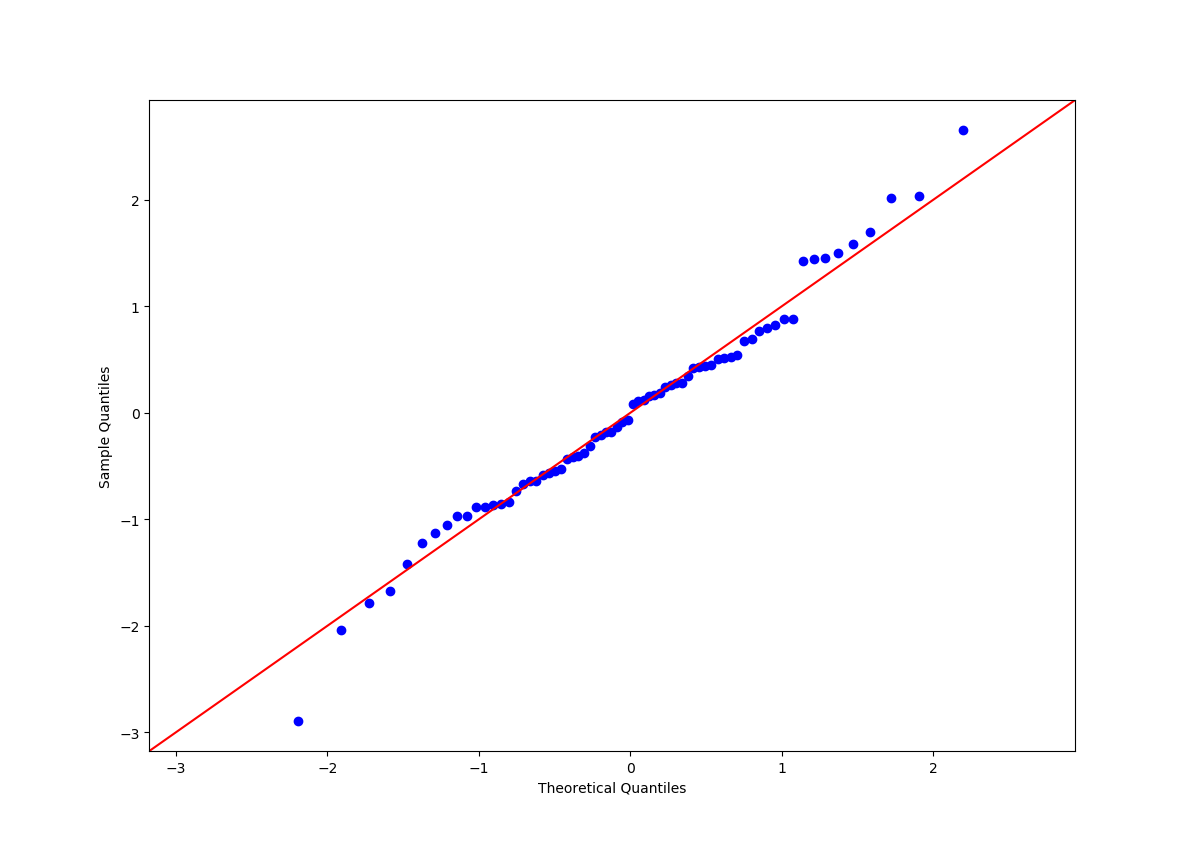
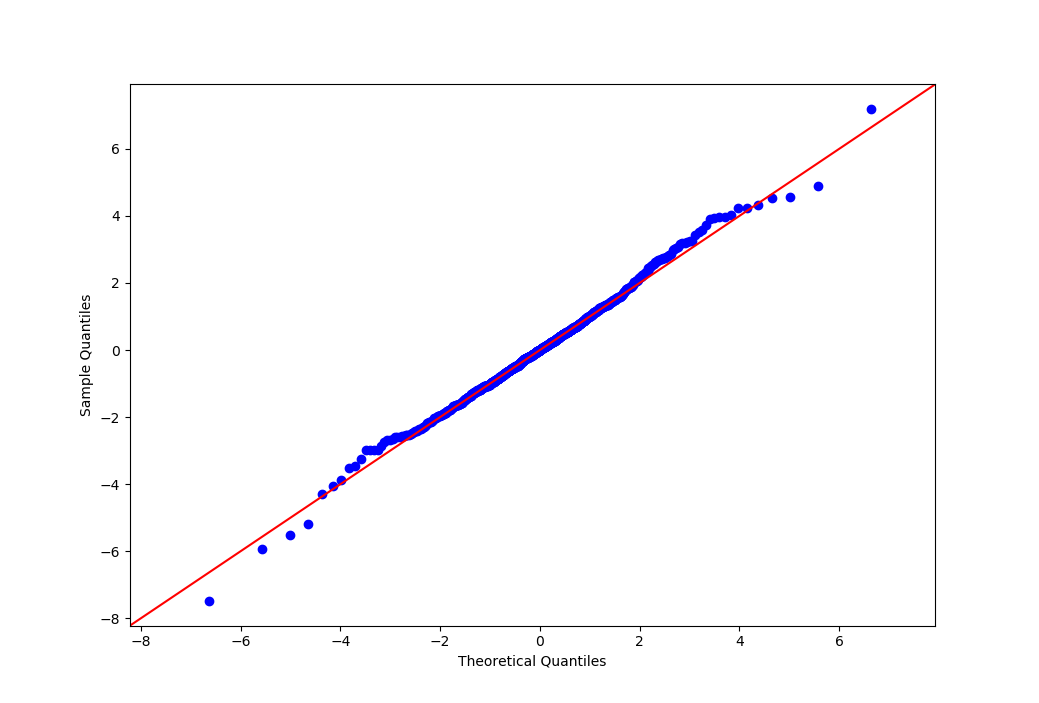
AutoUpload

diff --git a/_posts/[5] 可视化/2017-11-01-datavisualization.md b/_posts/[5] 可视化/2017-11-01-datavisualization.md
@@ -17,21 +17,31 @@ sns.distplot
 
 <img src='http://www.guofei.site/public/postimg2/seaborn1_1.png'>
 
+### box图
+
+### 小提琴图
 
 ### qq图
 
-看看是否服从特定分布
+看看是否服从特定分布[^qqplot]
 
-```
-from scipy.stats import norm
-import pandas as pd
+*(所用库：statsmodels)*
 
-df = pd.DataFrame(norm(loc=0, scale=1).rvs(size=70))
+```py
+from scipy.stats import t
+data = t(df=5).rvs(size=1000)
+
 import statsmodels.api as sm
 from matplotlib import pyplot as plt
-
-fig = sm.qqplot(df.loc[:, 0], fit=True, line='45')
+fig = sm.qqplot(data=data, dist=t, distargs=(3,), fit=True, line='45')
 plt.show()
 ```
 
 <img src='http://www.guofei.site/public/postimg/datavisualization1.png'>
+
+
+
+
+## 参考文献
+
+[^qqplot] :http://www.statsmodels.org/stable/generated/statsmodels.graphics.gofplots.qqplot.html

diff --git a/_posts/[5] 可视化/2017-09-25-matplotlib2.md b/_posts/[5] 可视化/2017-09-25-matplotlib2.md
@@ -1,7 +1,7 @@
 ---
 layout: post
 title: 【Python】【matplotlib】绘图函数
-categories: 
+categories:
 tags: 可视化
 keywords:
 description:
@@ -111,6 +111,23 @@ plt.show()
         - 1星形
         - 2放射形
         - 3圆形（忽略边数）
+
+
+
+### boxplot
+```py
+import pandas as pd
+import scipy.stats as stats
+df = pd.DataFrame({'a': stats.uniform(0, 1).rvs(size=20), 'b': stats.norm(1, 1).rvs(size=20)})
+
+import matplotlib.pyplot as plt
+fig, ax = plt.subplots()
+ax.boxplot(df.values)
+plt.show()
+```
+
+
+
 
 ## image
 
